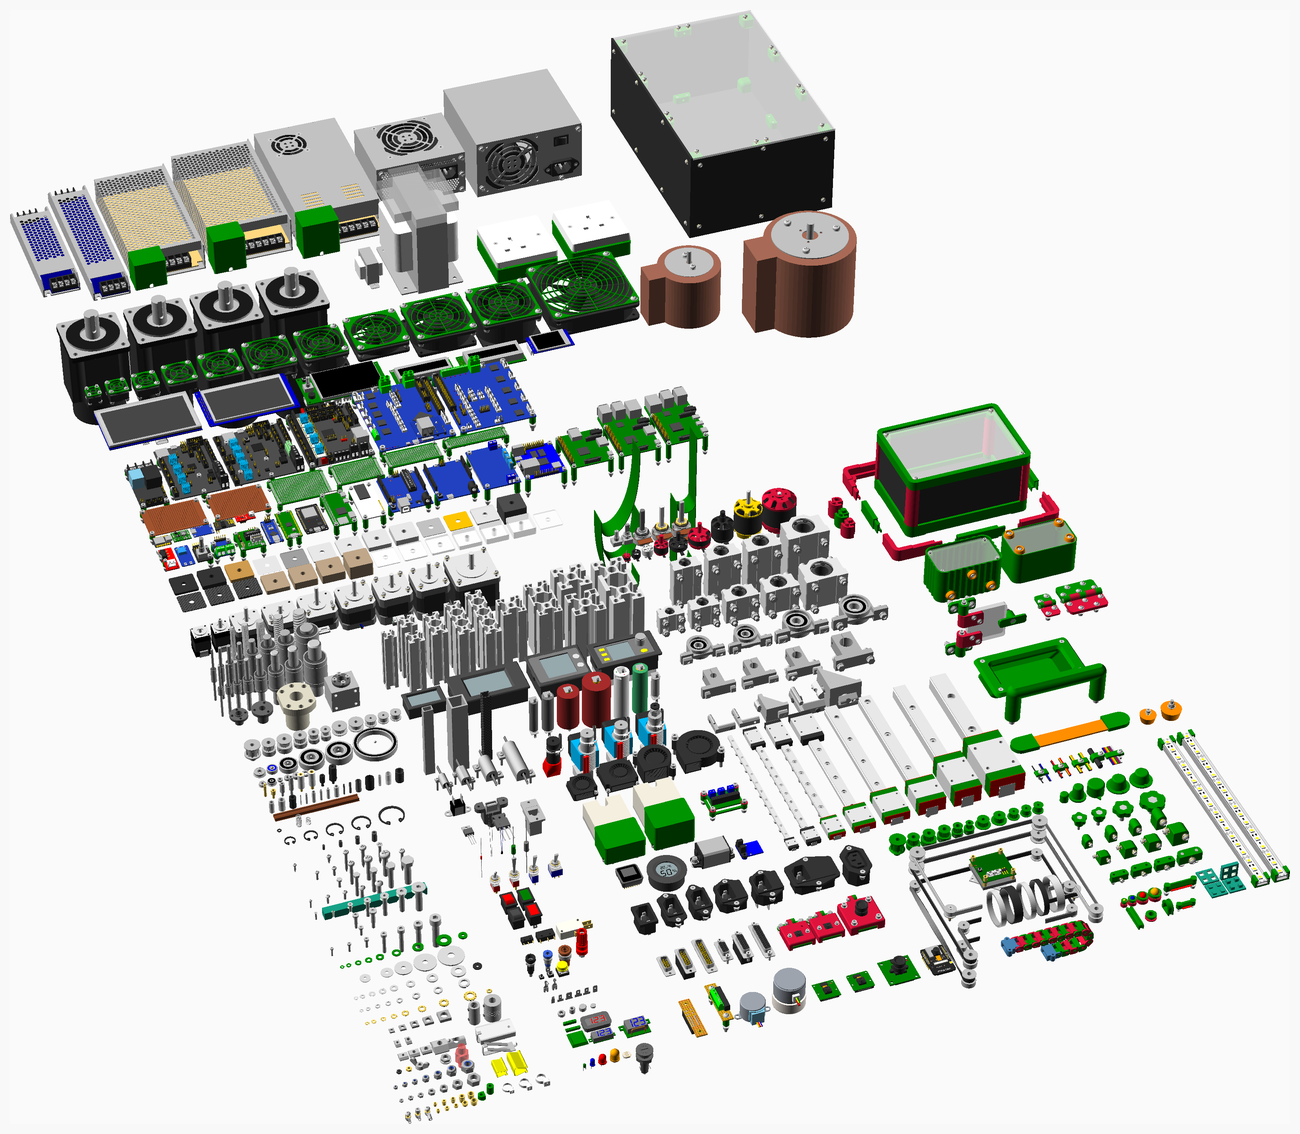
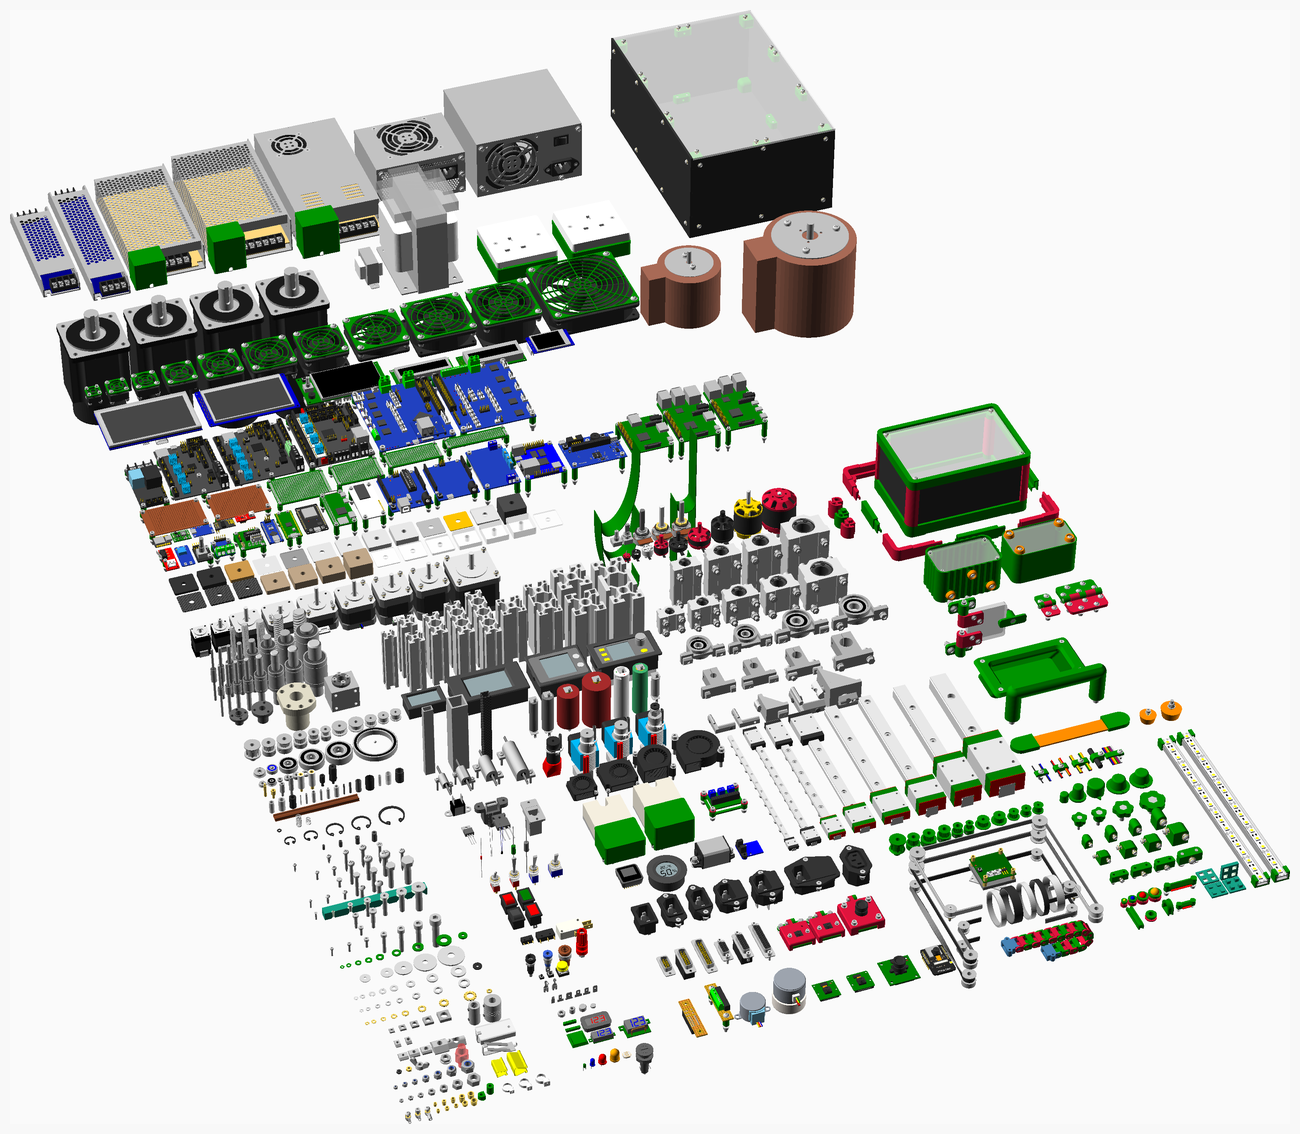
Added PanelDue V3.

Changed region(s): [[0.4308, 0.3086, 0.5846, 0.4321]]

diff --git a/readme.md b/readme.md
@@ -2703,11 +2703,12 @@ PCBs and perfboard with optional components. The shape can be a rectangle with o
 |   1 | `molex_254(3)` |  Molex KK header 3 way - not shown |
 |  20 | `nut(M2_nut, nyloc = true)` |  Nut M2 x 1.6mm nyloc |
 |  34 | `nut(M2p5_nut, nyloc = true)` |  Nut M2.5 x 2.2mm nyloc |
-|  40 | `nut(M3_nut, nyloc = true)` |  Nut M3 x 2.4mm nyloc |
+|  43 | `nut(M3_nut, nyloc = true)` |  Nut M3 x 2.4mm nyloc |
 |   8 | `nut(M4_nut, nyloc = true)` |  Nut M4 x 3.2mm nyloc |
 |   1 | `pcb(OPZ2)` |  Orange Pi Zero 2 |
 |   1 | `pcb(PI_IO)` |  PI_IO V2 - not shown |
 |   1 | `pcb(PSU12V1A)` |  PSU 12V 1A - not shown |
+|   1 | `pcb(PanelDue_v3)` |  Panel Due v3.0a LCD Display interface |
 |   1 | `pcb(PERF60x40)` |  Perfboard 60 x 40mm |
 |   1 | `pcb(PERF70x30)` |  Perfboard 70 x 30mm |
 |   1 | `pcb(PERF70x50)` |  Perfboard 70 x 50mm |
@@ -2725,12 +2726,13 @@ PCBs and perfboard with optional components. The shape can be a rectangle with o
 |  12 | `screw(M2_cap_screw, 20)` |  Screw M2 cap x 20mm |
 |   2 | `screw(M2p5_cap_screw, 16)` |  Screw M2.5 cap x 16mm |
 |   8 | `screw(M2p5_cap_screw, 25)` |  Screw M2.5 cap x 25mm |
-|  12 | `screw(M2p5_cap_screw, 30)` |  Screw M2.5 cap x 30mm |
+|   8 | `screw(M2p5_cap_screw, 30)` |  Screw M2.5 cap x 30mm |
+|   4 | `screw(M2p5_cap_screw, 35)` |  Screw M2.5 cap x 35mm |
 |   4 | `screw(M2p5_pan_screw, 20)` |  Screw M2.5 pan x 20mm |
 |   8 | `screw(M2p5_pan_screw, 25)` |  Screw M2.5 pan x 25mm |
 |  17 | `screw(M3_cap_screw, 16)` |  Screw M3 cap x 16mm |
 |  15 | `screw(M3_cap_screw, 20)` |  Screw M3 cap x 20mm |
-|   8 | `screw(M3_cap_screw, 30)` |  Screw M3 cap x 30mm |
+|  11 | `screw(M3_cap_screw, 30)` |  Screw M3 cap x 30mm |
 |   4 | `screw(M4_cap_screw, 20)` |  Screw M4 cap x 20mm |
 |   4 | `screw(M4_cap_screw, 25)` |  Screw M4 cap x 25mm |
 |   1 | `pcb(XIAO)` |  Seeeduino XIAO |
@@ -2741,7 +2743,7 @@ PCBs and perfboard with optional components. The shape can be a rectangle with o
 |   1 | `pcb(WD2002SJ)` |  WD2002SJ Buck Boost DC-DC converter |
 |  20 | `washer(M2_washer)` |  Washer  M2 x 5mm x 0.3mm |
 |  34 | `washer(M2p5_washer)` |  Washer  M2.5 x 5.9mm x 0.5mm |
-|  40 | `washer(M3_washer)` |  Washer  M3 x 7mm x 0.5mm |
+|  43 | `washer(M3_washer)` |  Washer  M3 x 7mm x 0.5mm |
 |   8 | `washer(M4_washer)` |  Washer  M4 x 9mm x 0.8mm |
 |   1 | `pcb(ZC_A0591)` |  ZC-A0591 ULN2003 driver PCB |
 
@@ -2757,13 +2759,14 @@ PCBs and perfboard with optional components. The shape can be a rectangle with o
 |   4 | pcb_spacer25140.stl |
 |   4 | pcb_spacer25150_2.stl |
 |   4 | pcb_spacer25160_2.stl |
-|   4 | pcb_spacer25190.stl |
 |   4 | pcb_spacer25200.stl |
 |   4 | pcb_spacer25210.stl |
+|   4 | pcb_spacer25220.stl |
 |   2 | pcb_spacer2550.stl |
 |   4 | pcb_spacer2590.stl |
 |   4 | pcb_spacer30170.stl |
 |   4 | pcb_spacer30180.stl |
+|   3 | pcb_spacer30190.stl |
 |   8 | pcb_spacer3050.stl |
 |   9 | pcb_spacer3060.stl |
 |   7 | pcb_spacer3070.stl |
